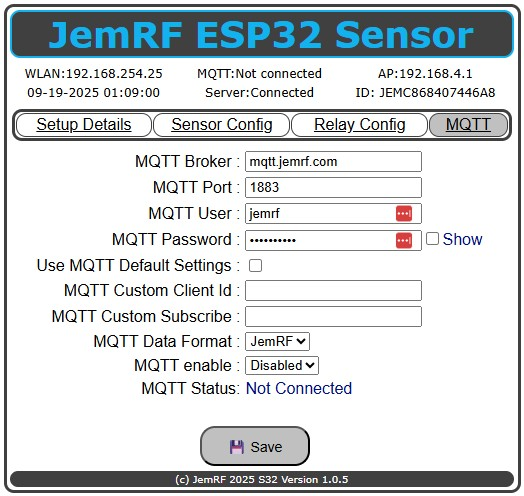
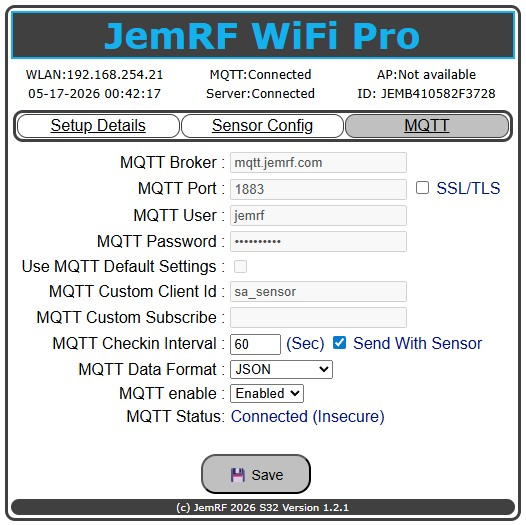
add new docs for Gateway Pro and Motion sensor

Changed region(s): [[0.0, 0.0, 1.0, 0.998]]

diff --git a/pages/wifidocs/wifi32s-gateway_relay.md b/pages/wifidocs/wifi32s-gateway_relay.md
@@ -1,0 +1,64 @@
+---
+title: WiFi Wireless Gateway Pro Plus Relay
+keywords: communication, communications, relay, basic, radio, spec, wifi, sensor, gateway, RF Gateway, WiFi Gateway
+last_updated: Aug 7, 2026
+tags:
+sidebar: wifi_sidebar
+permalink: wifi32s-gateway_relay.html
+folder: mydoc
+---
+
+{% include note.html content="Future Release, currently only available on request" %}
+
+## Introduction
+The WiFi Wireless Gateway Pro Plus Relay (WiFi Gateway Plus) receives messages from the Wireless sensors and sends them to the JemRF Monitoring service. This eliminates the need for a Raspberry PI computer and all that extra overhead. The Gateway provides an easy to use tool to get your wireless sensors online free of configuring and programming a computer first.<br />
+
+The WiFi Gateway Plus is in the same physical case as the current WiFi IoT Sensors.
+ * Follows the same setup process as our WiFi IoT Sensors to connect to the local 2.4G WiFi Only.
+ * It has option to send Celsius to Fahrenheit readings.
+ * Using a USB-mini connector for power.
+ * It provides a Sensor List overview page to show all the sensors it is tracking and their last value.
+ * Starting with Version 2.6.0 it supports RF4 Sensors, sensors with 4-character device IDs as well as the 2-character IDs.
+
+{% include image.html file="wirelessgateway.png" alt="WiFi Gateway Case" width="200px"%}
+
+## Tech Specs
+* Dimensions 74mm x 55mm x 28mm
+* Powered either by USB Mini cable and USB power supply, or battery connection (2.5V to 3.5V) via the 2 pin battery connection plug
+* Upgrades are done over the air using the Update button or can be done manually done using a 3.3V FTDI cable
+
+## Features
+* Easy to configure web interface. No programming or soldering skills required. You do not need the internet to configure the device. Connect to it directly from any WIFI device (e.g. PC, phone tablet…)
+* Supports both Celsius or Fahrenheit temperature conversion
+Powered either by USB Mini cable (4.5V DC to 7V DC input) or battery connection (2.5V to 3.5V) via the 2 pin battery connection plug
+* The device supports dual WIFI mode allowing it to be WIFI access point and a WIFI client at the same time. A WIFI access point advertises itself through an SSID and can be connected to via any device or computer that has WIFI.
+* The Sensor List tab will show sensor that the WiFi Relay and heard and forwarded to the server. See Example below:
+{% include image.html file="ActiveDevices.jpg" alt="WiFi Gateway Sensor List" %}
+
+## Required, but not included:
+
+* Mini USB cable and power supply (older cell phones used mini USB, so you may already have one in the bottom of a drawer).
+* Any USB power supply will work, 5 volts, 1 Amp or greater.
+
+## Setup Details
+The configuration page for the WiFi Gateway is very similar to the WiFi IoT Sensor.
+You can configure the Wireless Gateway using any device that supports WiFi and an internet browser. In this example we will use a desktop computer.
+Click here for the [Details Setup Guide](wifi-rf-gw-setup.html)
+
+## MQTT Details
+* Easy to configure web interface.
+* Connects to MQTT Broker with or without a username or password.
+* Tested with Mosquito Docker brokers and Emqx public broker.
+* JemRF provides an MQTT Broker for customers.
+
+[Click here for details on the JemRF MQTT format with examples](gatewaymqtt.html)
+
+## Firmware Updates
+The current Gateway Version is displayed at the bottom of each page. The firmware of the RF Transceiver is also show with the channel the Gateway is on. The default channel is zero (0).
+
+The Gateway is normally updated over the Internet. When a new update is available a message will appear on the Setup Details Page.
+
+[Click here for Illustrated guide on updating the Gateway](wifi-gw-update.html)
+
+## Mounting Instructions
+Mount the Gateway in a vertical position with the USB connector down. There is a mounting hold on the back for this. Do not mount against a metal wall as that can block the WiFi and RF signals.

diff --git a/pages/wifidocs/wifi32s-gateway_htu.md b/pages/wifidocs/wifi32s-gateway_htu.md
@@ -1,0 +1,64 @@
+---
+title: WiFi Wireless Gateway Pro
+keywords: communication, communications, relay, basic, radio, spec, wifi, sensor, gateway, RF Gateway, WiFi Gateway
+last_updated: Aug 7, 2026
+tags:
+sidebar: wifi_sidebar
+permalink: wifi32s-gateway_htu.html
+folder: mydoc
+---
+
+{% include note.html content="Future Release, currently only available on request" %}
+
+## Introduction
+The WiFi Wireless Gateway Pro (WiFi Gateway Pro) receives messages from the Wireless sensors and sends them to the JemRF Monitoring service. This eliminates the need for a Raspberry PI computer and all that extra overhead. The Gateway provides an easy to use tool to get your wireless sensors online free of configuring and programming a computer first.<br />
+
+The WiFi Gateway Pro is in the same physical case as the current WiFi IoT Sensors.
+ * Follows the same setup process as our WiFi IoT Sensors to connect to the local 2.4G WiFi Only.
+ * It has option to send Celsius to Fahrenheit readings.
+ * Using a USB-mini connector for power.
+ * It provides a Sensor List overview page to show all the sensors it is tracking and their last value.
+ * Starting with Version 2.6.0 it supports RF4 Sensors, sensors with 4-character device IDs as well as the 2-character IDs.
+
+{% include image.html file="wirelessgateway.png" alt="WiFi Gateway Case" width="200px"%}
+
+## Tech Specs
+* Dimensions 74mm x 55mm x 28mm
+* Powered either by USB Mini cable and USB power supply, or battery connection (2.5V to 3.5V) via the 2 pin battery connection plug
+* Upgrades are done over the air using the Update button or can be done manually done using a 3.3V FTDI cable
+
+## Features
+* Easy to configure web interface. No programming or soldering skills required. You do not need the internet to configure the device. Connect to it directly from any WIFI device (e.g. PC, phone tablet…)
+* Supports both Celsius or Fahrenheit temperature conversion
+Powered either by USB Mini cable (4.5V DC to 7V DC input) or battery connection (2.5V to 3.5V) via the 2 pin battery connection plug
+* The device supports dual WIFI mode allowing it to be WIFI access point and a WIFI client at the same time. A WIFI access point advertises itself through an SSID and can be connected to via any device or computer that has WIFI.
+* The Sensor List tab will show sensor that the WiFi Relay and heard and forwarded to the server. See Example below:
+{% include image.html file="ActiveDevices.jpg" alt="WiFi Gateway Sensor List" %}
+
+## Required, but not included:
+
+* Mini USB cable and power supply (older cell phones used mini USB, so you may already have one in the bottom of a drawer).
+* Any USB power supply will work, 5 volts, 1 Amp or greater.
+
+## Setup Details
+The configuration page for the WiFi Gateway is very similar to the WiFi IoT Sensor.
+You can configure the Wireless Gateway using any device that supports WiFi and an internet browser. In this example we will use a desktop computer.
+Click here for the [Details Setup Guide](wifi-rf-gw-setup.html)
+
+## MQTT Details
+* Easy to configure web interface.
+* Connects to MQTT Broker with or without a username or password.
+* Tested with Mosquito Docker brokers and Emqx public broker.
+* JemRF provides an MQTT Broker for customers.
+
+[Click here for details on the JemRF MQTT format with examples](gatewaymqtt.html)
+
+## Firmware Updates
+The current Gateway Version is displayed at the bottom of each page. The firmware of the RF Transceiver is also show with the channel the Gateway is on. The default channel is zero (0).
+
+The Gateway is normally updated over the Internet. When a new update is available a message will appear on the Setup Details Page.
+
+[Click here for Illustrated guide on updating the Gateway](wifi-gw-update.html)
+
+## Mounting Instructions
+Mount the Gateway in a vertical position with the USB connector down. There is a mounting hold on the back for this. Do not mount against a metal wall as that can block the WiFi and RF signals.

diff --git a/pages/wifidocs/wifi32s-sensor.md b/pages/wifidocs/wifi32s-sensor.md
@@ -1,5 +1,5 @@
 ---
-title: The JemRF ESP32 WIFI Sensor Version Introduction
+title: The JemRF WIFI Sensor Pro Version Introduction
 keywords: getting started introduction
 last_updated: Dec  12, 2025
 tags:
@@ -9,17 +9,17 @@ permalink: wifi32s-sensor.html
 folder: wifidocs
 ---
 
-## S32 WiFI Sensor 
+## S32 WiFI Sensor
 
-![WiFi Sensor Case](images/wifisensorcase.jpg "WiFi Case") 
+![WiFi Sensor Case](images/wifisensorcase.jpg "WiFi Case")
 
-The JemRF S32 WiFi Sensor is based on the ESP32 processor, which makes it more than just upgraded Version; it is the start of our next-generation of sensors. The S32 WiFi Sensor expands the versatile device features of the older device with a larger collection of sensor options, ready to go with simple plug-and-play, for quickly and inexpensively updating the cloud. \
-It comes in different configurations, 
-1. Temperature and Humidity Sensor with options, 
-2. Pressure Sensor with options, 
-3. Temperature sensor with options, 
-4. Contact Sensor with options. 
-   
+The JemRF S32 WiFi Sensor Pro is based on the ESP32 processor, which makes it more than just upgraded Version; it is the start of our next-generation of sensors. The S32 WiFi Sensor expands the versatile device features of the older device with a larger collection of sensor options, ready to go with simple plug-and-play, for quickly and inexpensively updating the cloud. \
+It comes in different configurations,
+1. Temperature and Humidity Sensor with options,
+2. Pressure Sensor with options,
+3. Temperature sensor with options,
+4. Contact Sensor with options.
+
 The options for each include up to 4 external temperature sensors at lengths from 1 m to 5 meters, all at the same time.  The Sensor also supports remote pressure sensors from 10 to 500 psi. Has an interface for a remote digital flow sensor or door sensor.
 
 The JemrRF S32 WiFi Sensor can support multiple sensor types concurrently, reducing the cost of various sensors in a single location.
@@ -40,8 +40,9 @@ The sensor provides options to customize for your business and to authenticate c
 - Supports HTU21D Temperature (-40℃ – 105℃) and Humidity - Sensor, future BME280 Temperature,Humidity and Pressure
 - Although the sensor is highly accurate (±0.5°C accuracy), you can calibrate the temperature reading using a configuration in the WiFI sensor app
 - The device supports dual Wi-Fi mode, allowing it to act as both a Wi-Fi access point and a Wi-Fi client at the same time. A WiFI access point advertises itself through an SSID and can be connected to via any device or computer that has WiFI.
-- MQTT Setup page for connection to the MQTT Broker to relay temperature and humidity readings. 
-- The WiFi Sensor supports 2 MQTT formats; more details are available in WiFi Gateway MQTT Explained. The MQTT connection can be upgraded from a standard non-secure to a secure, trusted connection.
+- MQTT Setup page for connection to the MQTT Broker to relay temperature and humidity readings.
+- The WiFi Sensor supports 3 MQTT formats; more details are available in (WiFi Pro Devices MQTT Settings)[https://documents.jemrf.com/wifi32s-mqtt.html]. The MQTT connection can be upgraded from a standard non-secure to a secure, trusted connection.
+- MQTT Home Assistant Auto-Discovery supported.
 - Access Control Option to provide Authorization to save Changes and read hidden settings.
 - JST PH2.0 plug option for external 5 volt DC external power, or to provide power to external devices.
 - JST PH2.54 3-pin plug for external Pressure Sensor
@@ -51,7 +52,7 @@ The sensor provides options to customize for your business and to authenticate c
 ## Required, but not included:
 
 USB-C cable and USB power supply.
-We have USB-C cables at our store, (JemRF Store)[https://www.jemrf.com]. 
+We have USB-C cables at our store, (JemRF Store)[https://www.jemrf.com].
 
 ## Installation and Projects
 

diff --git a/pages/wifidocs/wifi32s-temp-hum.md b/pages/wifidocs/wifi32s-temp-hum.md
@@ -10,7 +10,7 @@ folder: wifidoc
 ## Introduction
 The S32 WiFi Sensor support and internal HTU21D Temperature and Humidity Sensor. The HTU21D provides a Temperature reading from -40℃ – 105℃ and Humidity readings from 0 to 100%. The sensor is highly accurate (±0.5°C accuracy) from -20℃ to 85℃.
 
-The JemRF S32 WiFi Sensor is based on the ESP32 processor, which makes it more than just upgraded Version; it is the start of our next-generation of sensors. The S32 WiFi Sensor expands the versatile device features of the older device with a larger collection of sensor options, ready to go with simple plug-and-play, for quickly and inexpensively updating the cloud. 
+The JemRF S32 WiFi Sensor is based on the ESP32 processor, which makes it more than just upgraded Version; it is the start of our next-generation of sensors. The S32 WiFi Sensor expands the versatile device features of the older device with a larger collection of sensor options, ready to go with simple plug-and-play, for quickly and inexpensively updating the cloud.
 
 The options include options for multiple sensors including up to 4 external temperature sensors at lengths from 1 m to 5 meters, all at the same time.  The Sensor also supports remote pressure sensors from 10 to 500 psi. Has an interface for a remote digital flow sensor or door sensor.
 
@@ -22,14 +22,16 @@ The JemrRF S32 WiFi Sensor can support multiple sensor types concurrently, reduc
 - Uses your local 2.4 GHz WiFi to access the Internet
 - Cyclic temperature transmission mode with configurable send interval
 - Supports both Celsius and Fahrenheit temperature readings
-- MQTT Setup page for connection to the MQTT Broker to relay temperature and humidity readings. 
-- The WiFi Sensor supports 2 MQTT formats; more details are available in WiFi Gateway MQTT Explained. The MQTT connection can be upgraded from a standard non-secure to a secure, trusted connection.
-- Supports HTU21D Temperature (-40℃ – 105℃) and Humidity - Sensor, future BME280 Temperature,Humidity and Pressure
-  
+- MQTT Setup page for connection to the MQTT Broker to relay temperature and humidity readings.
+- The WiFi Sensor supports 3 MQTT formats; more details are available in (WiFi Pro Devices MQTT Settings)[https://documents.jemrf.com/wifi32s-mqtt.html]. The MQTT connection can be upgraded from a standard non-secure to a secure, trusted connection.
+- MQTT Home Assistant Auto-Discovery supported.
+- Supports HTU21D Temperature (-40℃ – 105℃) and Humidity - Sensor
+- Support White Label Options
+
 ## Required, but not included:
 
 USB-C cable and USB power supply.
-We have USB-C cables at our store, (JemRF Store)[https://www.jemrf.com]. 
+We have USB-C cables at our store, (JemRF Store)[https://www.jemrf.com].
 
 ## Tech Specs:
 

diff --git a/pages/wifidocs/wifi32s-motion.md b/pages/wifidocs/wifi32s-motion.md
@@ -1,0 +1,38 @@
+---
+title: WiFi Motion Sensor Pro
+keywords: communication, communications, relay, basic, radio, spec, wifi, sensor
+last_updated: Dec 10, 2025
+tags:
+sidebar: wifi_sidebar
+permalink: wifi32s-motion.html
+folder: wifidoc
+---
+## Introduction
+The S32 WiFi Sensor Pro Motion and internal Temperature and Humidity Sensor.
+
+
+
+## Quick Start
+Follow the WiFi Sensor Pro series devices for connection to the local WiFi.
+
+## Features:
+
+- Easy to configure web interface. No programming or soldering skills required. You do not need the internet to configure the device. Connect to it directly from any Wi-Fi device (e.g., PC, phone, tablet).
+- Uses your local 2.4 GHz WiFi to access the Internet
+- Cyclic temperature transmission mode with configurable send interval
+- MQTT Setup page for connection to the MQTT Broker to relay motion, temperature and humidity readings.
+- The WiFi Sensor supports 3 MQTT formats; more details are available in (WiFi Pro Devices MQTT Settings)[https://documents.jemrf.com/wifi32s-mqtt.html]. The MQTT connection can be upgraded from a standard non-secure to a secure, trusted connection.
+- MQTT Home Assistant Auto-Discovery supported.
+-
+
+## Switch Wiring
+
+## Required, but not included:
+
+USB-C cable and USB power supply.
+We have USB-C cables at our store, (JemRF Store)[https://www.jemrf.com].
+
+## Tech Specs:
+
+* Dimensions 74mm x 55mm x 28mm
+* Powered either by a USB-C cable 5VDC.
